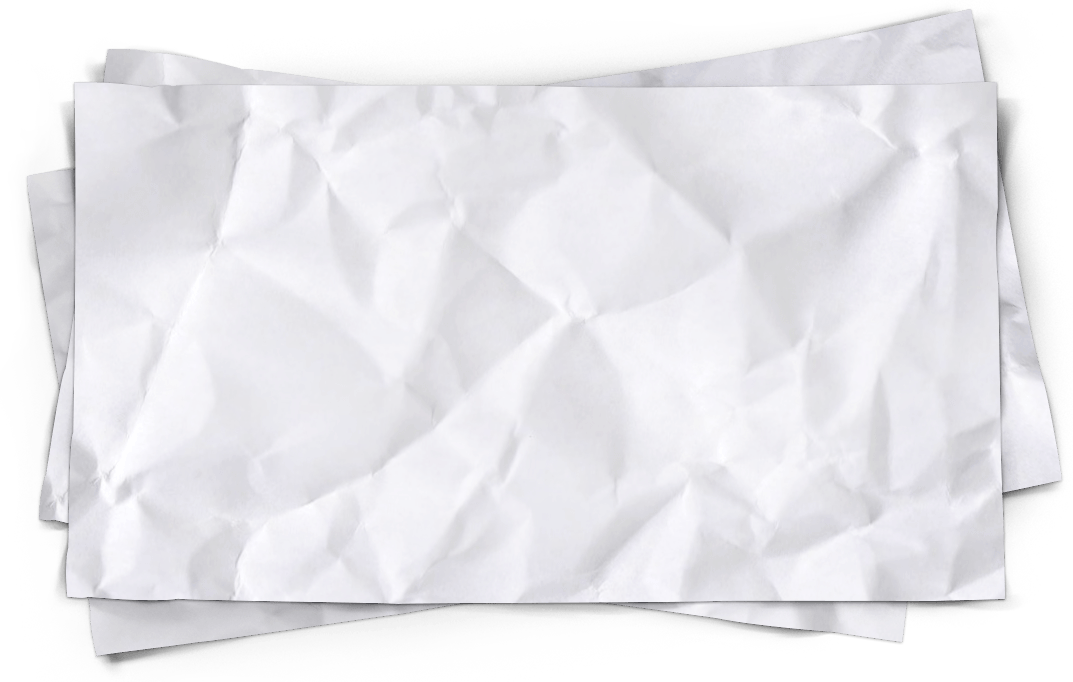
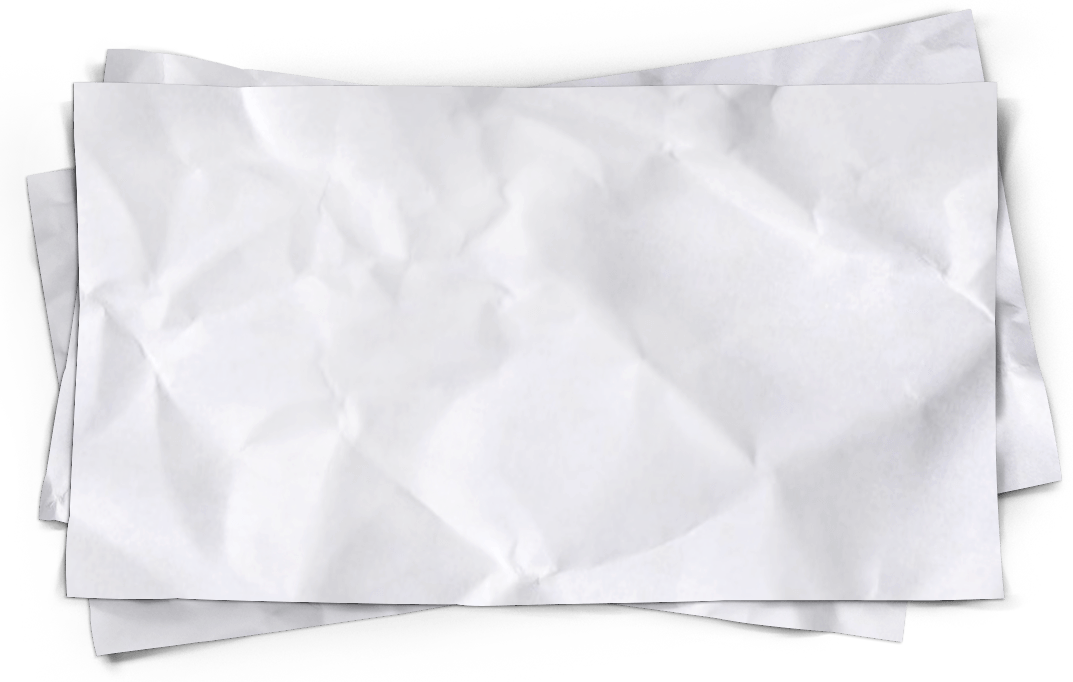
Hi-Res Paper

diff --git a/app/assets/styles/screenjack--desktop.css b/app/assets/styles/screenjack--desktop.css
@@ -178,6 +178,12 @@
         }
     }
 
+    @media screen and (min-width: 1600px) {
+        .input__paper-stack {
+            background: url(../img/input__paper-stack--hires.png) no-repeat; background-size: contain;
+        }
+    }
+
     @media screen and (max-width: 1276px) {
         .input__resize-box {
             width: 60em; height: 38.125em; margin: -11.25em 0 0 -30em;
